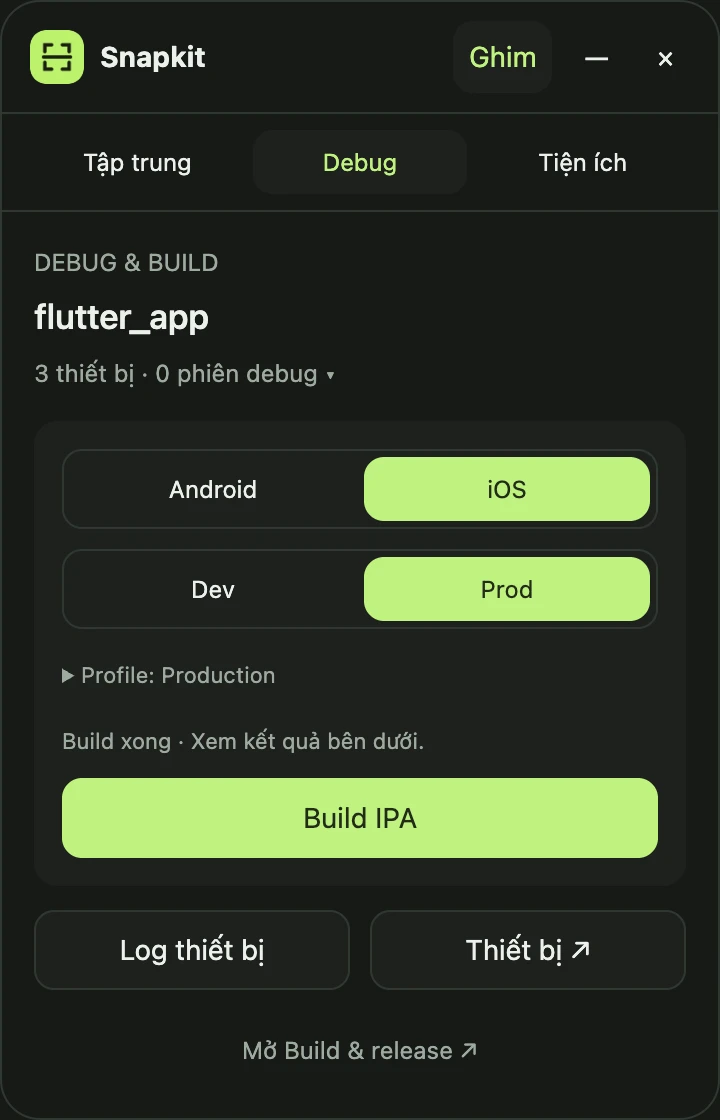
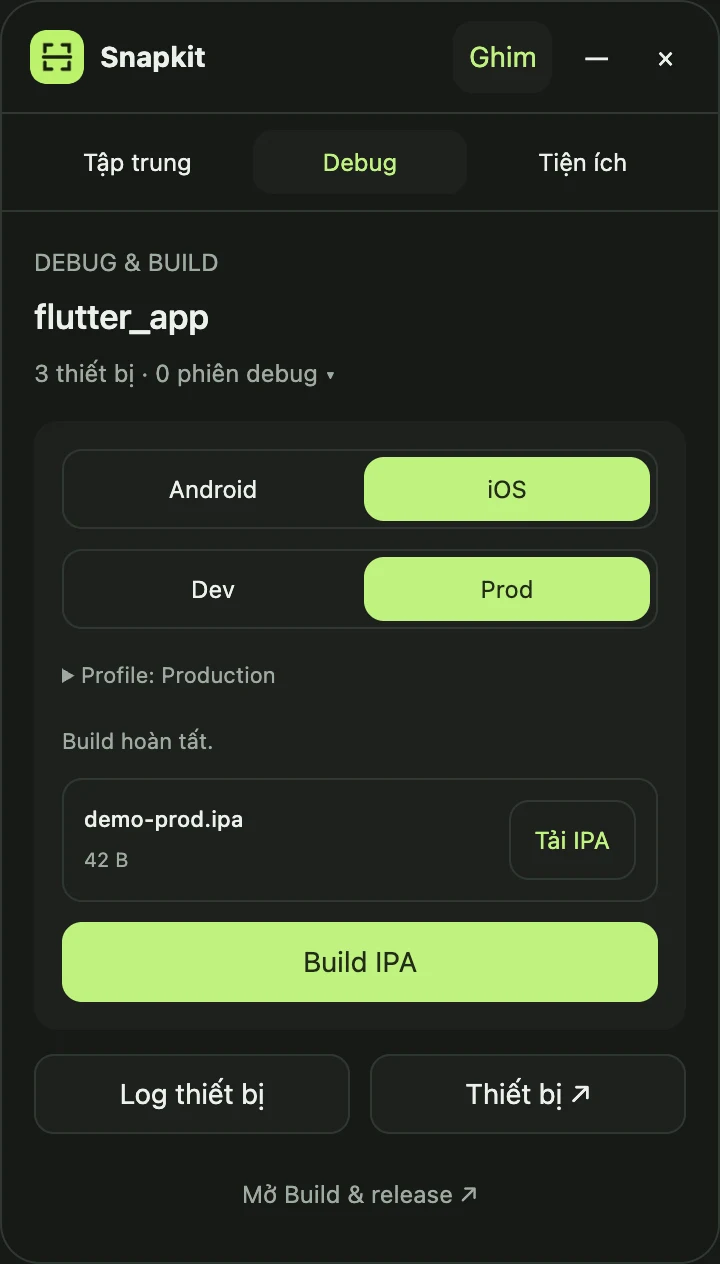
feat: save Mini build artifacts and notify on completion

diff --git a/scripts/content/seo-guides.js b/scripts/content/seo-guides.js
@@ -57,7 +57,7 @@ export const guides = [
  ['Tạo mã QR không qua liên kết trung gian',['Mở QR Kit, nhập liên kết hoặc văn bản và bấm Tạo mã QR. Bạn có thể chọn mức phục hồi mã L, M, Q hoặc H; mức cao chịu lỗi tốt hơn nhưng chứa ít dữ liệu hơn.','Lưu ảnh QR dạng PNG rồi quét thử bằng điện thoại trước khi chia sẻ. QR chứa trực tiếp nội dung bạn nhập, không mã hoá và không tự gửi lên server. Thay nội dung sẽ xoá ảnh QR cũ để tránh lưu nhầm.']],
  ['Đổi ảnh đại diện',['Mở Hồ sơ của tôi → Tải ảnh lên để chọn PNG, JPG hoặc WebP tối đa 5 MB. Ảnh được cắt vuông ở giữa và thu nhỏ thành 256 × 256.','Hoặc mở Thư viện avatar, chọn bộ Robot/Chân dung và một ảnh, hay bấm Chọn ngẫu nhiên. Xem trước rồi Lưu hồ sơ; Đặt lại thay đổi bỏ bản nháp và Dùng chữ cái khôi phục avatar chữ cái. Avatar được giữ khi đăng nhập lại; demo chỉ thay đổi trong bản xem thử.']],
  ['Ổ trong máy và SSD gắn ngoài',['Vào Thiết lập & công cụ hoặc Snapkit Kit → Theo dõi máy để xem từng ổ đang kết nối. Mỗi thẻ ghi tên ổ, SSD/HDD khi hệ điều hành cung cấp, kết nối, dung lượng trống và tổng dung lượng. Nhãn chỉ rõ ổ hệ thống, dữ liệu Snapkit và dự án đang mở.','Dung lượng dùng GB thập phân. Trên macOS, số trống là phần hệ thống đang cho phép ghi; Cài đặt macOS có thể tính thêm phần có thể thu hồi. Các volume System/Data trong cùng nhóm APFS được gộp, không cộng dung lượng hai lần. Bấm Kiểm tra lại hoặc Cập nhật thông tin máy sau khi cắm/rút ổ.']],
- ['Widget nổi và menu bar',['Trong bản desktop, bấm Mở widget nổi trên Snapkit Kit hoặc Focus Kit. Chuyển Tập trung, Debug hoặc Tiện ích bằng thanh chế độ phía trên. Chế độ cuối được nhớ trên máy. Đổi chế độ không dừng đồng hồ. Kéo thanh Snapkit để di chuyển; Ghim giữ widget trên cùng, dấu trừ thu gọn và dấu × đóng riêng widget. Đồng hồ đồng bộ với Focus Kit kể cả khi cửa sổ chính bị ẩn.','Trong My day, bấm nút ghim cạnh task để đưa task thật và tiến độ tiêu chí lên widget. Mở task quay lại đúng công việc trong Teams. Tiến độ được kiểm tra lại khi widget mở và có kết nối; widget không tự đánh dấu tiêu chí thay bạn.','Build trực tiếp trong Debug: chọn Android hoặc iOS, chọn Dev hoặc Prod, kiểm tra tên Profile rồi bấm Build APK/IPA. Dev/Prod là môi trường từ profile dự án, không phải chế độ debug của Flutter. Widget dùng đúng flavor, entrypoint và file defines của profile. Nếu chưa có profile rõ ràng hoặc có nhiều profile trùng môi trường, bấm dòng Profile để chọn. Lựa chọn được nhớ riêng theo dự án, nền tảng và môi trường. iOS cần macOS, Xcode và cấu hình signing; widget không tự upload lên TestFlight. Khi đang build, bạn có thể bấm Huỷ. Mở Build & release để xem artifact, log lỗi và cấu hình nâng cao.',
+ ['Widget nổi và menu bar',['Trong bản desktop, bấm Mở widget nổi trên Snapkit Kit hoặc Focus Kit. Chuyển Tập trung, Debug hoặc Tiện ích bằng thanh chế độ phía trên. Chế độ cuối được nhớ trên máy. Đổi chế độ không dừng đồng hồ. Kéo thanh Snapkit để di chuyển; Ghim giữ widget trên cùng, dấu trừ thu gọn và dấu × đóng riêng widget. Đồng hồ đồng bộ với Focus Kit kể cả khi cửa sổ chính bị ẩn.','Trong My day, bấm nút ghim cạnh task để đưa task thật và tiến độ tiêu chí lên widget. Mở task quay lại đúng công việc trong Teams. Tiến độ được kiểm tra lại khi widget mở và có kết nối; widget không tự đánh dấu tiêu chí thay bạn.','Build trực tiếp trong Debug: chọn Android hoặc iOS, chọn Dev hoặc Prod, kiểm tra tên Profile rồi bấm Build APK/IPA. Dev/Prod là môi trường từ profile dự án, không phải chế độ debug của Flutter. Widget dùng đúng flavor, entrypoint và file defines của profile. Nếu chưa có profile rõ ràng hoặc có nhiều profile trùng môi trường, bấm dòng Profile để chọn. Lựa chọn được nhớ riêng theo dự án, nền tảng và môi trường. iOS cần macOS, Xcode và cấu hình signing; widget không tự upload lên TestFlight. Khi đang build, bạn có thể bấm Huỷ. Build xong, tên file, dung lượng và nút Tải APK/IPA hiện ngay trong widget; chọn nơi lưu, Snapkit mở vị trí file sau khi tải. Thông báo hệ thống có âm thanh báo build thành công hoặc thất bại kể cả khi widget đã đóng, nếu bạn đã cấp quyền thông báo. Bấm thông báo để mở Build & release. Mở Build & release để xem log lỗi và cấu hình nâng cao.',
  'Trong Debug, xem thiết bị online, phiên Debug Sync và trạng thái build thật. Nếu công cụ build không cung cấp phần trăm, Snapkit hiển thị giai đoạn xử lý. Log thiết bị, Thiết bị và Build & release mở màn tương ứng trong ứng dụng. Trong Tiện ích, Copy dùng mục mới nhất trong lịch sử đã bật; Chụp ảnh và Tạo QR mở công cụ đầy đủ. Giữ máy thức dùng chung trạng thái với ứng dụng.',
  'Biểu tượng Snapkit nằm trên menu bar của macOS hoặc system tray của Windows. Đóng cửa sổ chính chỉ ẩn ứng dụng; mở lại từ biểu tượng hoặc Dock. Chọn Thoát Snapkit để dừng ứng dụng hoàn toàn. Giữ máy thức và clipboard theo phiên chỉ kết thúc khi tắt chức năng hoặc thoát hẳn.','Sau lần đăng nhập đầu tiên, desktop yêu cầu thông báo qua hệ điều hành. Trên web, bấm Cho phép thông báo trong lời nhắc. Không hỏi lại nếu bạn đã tắt hoặc chọn Để sau; có thể bật lại trong bảng thông báo.']],
  ['Những công cụ còn lại',['Image Kit đổi kích thước và định dạng PNG, JPEG, WebP. Text Kit xử lý JSON, Base64, URL và văn bản. File Check đối chiếu SHA-256 của tệp tải về. Focus Kit hẹn giờ tập trung; desktop có thông báo hệ điều hành nếu được cấp quyền.','Muốn mở cùng máy hoặc giữ máy thức, dùng Luôn sẵn khi bạn cần ở cuối trang. Khởi động cùng máy chỉ có trong bản cài đặt macOS/Windows; Giữ máy luôn thức kết thúc khi tắt chức năng hoặc thoát hẳn ứng dụng. Dữ liệu của các tiện ích này không được tự chia sẻ vào Teams.']]]},en:{title:'Snapkit everyday utility kit',description:'Use session clipboard history, batch rename, screen annotation, QR generation and local tools on macOS and Windows.',intro:'No development project required. Open Personal → Snapkit Kit → Everyday tools and choose what you need.',sections:[
@@ -67,7 +67,7 @@ export const guides = [
  ['Capture, annotate and redact an image',['In Snap Capture, choose a desktop screen or open a PNG, JPEG or WebP image. macOS may require Screen Recording permission in System Settings and an app restart. Screen previews are captured at up to 1920 × 1080.','Choose Mark rectangle, Draw arrow or Cover private text, then drag on the image. Redaction writes an opaque black area into the exported PNG pixels. Check coverage before sharing.','Undo an annotation to correct it, then Save annotated image. The original is not overwritten. Discard image clears it from the tool. The browser demo annotates selected or sample images; it does not capture desktop screens.']],
  ['Generate a direct QR code',['Open QR Kit, enter a link or text and generate the code. Choose error correction L, M, Q or H; higher correction tolerates more damage but fits less data.','Save the PNG and test it with your phone before sharing. The code contains your original content without encryption or a tracking redirect. It is generated locally. Editing the content clears the old output to prevent saving a stale code.']],
  ['Internal and external storage',['Open Setup & tools or Snapkit Kit → Machine Watch to see connected storage. Each card identifies the volume, SSD/HDD when reported by the OS, connection, available and total space. Badges show the system disk, Snapkit data and active project.','Capacity uses decimal GB. macOS may include reclaimable space in its own storage estimates; Snapkit shows currently writable space. System/Data volumes in an APFS group are shown once. Refresh after connecting or disconnecting a drive.']],
- ['Floating widget and menu bar',['In the desktop app, choose Open floating widget in Snapkit Kit or Focus Kit. Choose Focus, Debug or Utilities in the mode bar. The last mode is remembered on this computer; switching does not pause your timer. Drag its Snapkit header to move it, Pin keeps it on top, minus collapses it and × closes just the widget. Its timer stays in sync with Focus Kit when the main window is hidden.','In My day, use the pin button beside a task to show its real title and acceptance progress. Open task returns to that work in Teams. Progress refreshes while the widget is open and connected; criteria are edited in the full app.','Build directly in Debug: choose Android or iOS, select Dev or Prod, review the Profile name, then press Build APK/IPA. Dev/Prod are project profile environments, not Flutter debug build modes. The widget uses that profile’s actual flavor, entrypoint and defines file. If an environment is missing or ambiguous, choose a profile from the Profile row. Choices are remembered per project, platform and environment. iOS requires macOS, Xcode and signing setup; the widget does not upload to TestFlight. Cancel stops the active build. Open Build & release for artifacts, failure logs and advanced configuration.',
+ ['Floating widget and menu bar',['In the desktop app, choose Open floating widget in Snapkit Kit or Focus Kit. Choose Focus, Debug or Utilities in the mode bar. The last mode is remembered on this computer; switching does not pause your timer. Drag its Snapkit header to move it, Pin keeps it on top, minus collapses it and × closes just the widget. Its timer stays in sync with Focus Kit when the main window is hidden.','In My day, use the pin button beside a task to show its real title and acceptance progress. Open task returns to that work in Teams. Progress refreshes while the widget is open and connected; criteria are edited in the full app.','Build directly in Debug: choose Android or iOS, select Dev or Prod, review the Profile name, then press Build APK/IPA. Dev/Prod are project profile environments, not Flutter debug build modes. The widget uses that profile’s actual flavor, entrypoint and defines file. If an environment is missing or ambiguous, choose a profile from the Profile row. Choices are remembered per project, platform and environment. iOS requires macOS, Xcode and signing setup; the widget does not upload to TestFlight. Cancel stops the active build. When complete, the widget shows the file name, size and Save APK/IPA button. Choose a save location; Snapkit reveals the saved file. A system notification with sound reports success or failure even when the widget is closed, if notifications are allowed. Click it to open Build & release. Open Build & release for failure logs and advanced configuration.',
  'Debug shows online devices, Debug Sync sessions and the actual build stage, without inventing a completion percentage. Device logs, Devices and Build & release open the corresponding app pages. Utilities copies the newest captured history item; Capture and Create QR open their full tools. Keep Awake shares the same setting as the full app.',
  'Snapkit appears in the macOS menu bar or Windows system tray. Closing the main window hides it; reopen from the icon or Dock. Choose Quit Snapkit to stop the app. Keep Awake and session clipboard continue until disabled or you quit entirely.','After your first signed-in launch, desktop requests OS notifications. On the web, click Allow notifications in the startup invitation. Existing opt-outs and Not now are respected; enable later in the notification panel.']],
  ['Change your avatar',['Open My profile → Upload photo to choose a PNG, JPG or WebP up to 5 MB. Snapkit center-crops it to a square and resizes it to 256 × 256 before saving.','Or open Avatar library, choose Robots or Portraits, then select an avatar or choose Surprise me. Preview it and Save profile. Reset changes discards your draft; Use initials restores your initials. Saved avatars survive sign-in. The web demo changes only the current preview.']],

diff --git a/apps/desktop/src/mini/mini.js b/apps/desktop/src/mini/mini.js
@@ -23,14 +23,16 @@ function render(value){
   const picker=$('build-profile-picker'),label=$('build-profile-label');label.textContent=(vi?'Profile: ':'Profile: ')+(q?.profile||(vi?'Chọn cấu hình':'Choose profile'));picker.hidden=!q?.profiles?.length;
   const signature=JSON.stringify([q?.profiles,q?.profileId,busy,q?.busy]);if($('build-profiles').dataset.signature!==signature){$('build-profiles').dataset.signature=signature;const options=(q?.profiles||[]).map(profile=>{const button=document.createElement('button');button.textContent=profile.name;button.setAttribute('aria-pressed',String(profile.id===q.profileId));button.disabled=busy||q.busy;button.addEventListener('click',()=>{picker.open=false;void action('build:profile:'+profile.id);});return button;});$('build-profiles').replaceChildren(...options);}
   const reasons={signin:vi?'Đăng nhập trong Snapkit.':'Sign in to Snapkit.',workspace:vi?'Chọn dự án trong Snapkit.':'Choose a project in Snapkit.',framework:vi?'Build nhanh hiện hỗ trợ Flutter.':'Quick build supports Flutter.',loading:vi?'Đang tải cấu hình…':'Loading profiles…',catalog:vi?'Mở Build & release để kiểm tra cấu hình.':'Open Build & release to review configuration.',platform:q?.platform==='ios'?(vi?'iOS cần macOS và dự án iOS.':'iOS requires macOS and an iOS project.'):(vi?'Dự án chưa có Android.':'This project has no Android platform.'),profile:vi?'Chọn profile cho môi trường này.':'Choose a profile for this environment.',busy:vi?'Một tác vụ build đang chạy.':'A build task is running.'};
-  const stages={starting:vi?'Đang bắt đầu…':'Starting…',preparing:vi?'Đang chuẩn bị…':'Preparing…',building:vi?'Đang build…':'Building…',collecting:vi?'Đang lưu kết quả…':'Saving artifacts…',succeeded:vi?'Build xong · Xem kết quả bên dưới.':'Build complete · Open results below.',failed:vi?'Build thất bại · Mở chi tiết bên dưới.':'Build failed · Open details below.',cancelled:vi?'Đã huỷ build.':'Build cancelled.',interrupted:vi?'Build bị gián đoạn.':'Build interrupted.'};
+  const stages={starting:vi?'Đang bắt đầu…':'Starting…',preparing:vi?'Đang chuẩn bị…':'Preparing…',building:vi?'Đang build…':'Building…',collecting:vi?'Đang lưu kết quả…':'Saving artifacts…',succeeded:vi?'Build hoàn tất.':'Build complete.',failed:vi?'Build thất bại · Mở chi tiết bên dưới.':'Build failed · Open details below.',cancelled:vi?'Đã huỷ build.':'Build cancelled.',interrupted:vi?'Build bị gián đoạn.':'Build interrupted.'};
   $('build-status').textContent=q?.reason&&!q.busy?reasons[q.reason]||'':d?.build?.upload?(vi?'Đang upload…':'Uploading…'):(q?.busy?[stages[q?.status]||reasons.busy,q?.activeFormat,q?.activeFlavor].filter(Boolean).join(' · '):stages[q?.status])||(q?.busy?reasons.busy:vi?'Sẵn sàng · APK / IPA':'Ready · APK / IPA');
+  const artifacts=$('build-artifacts'),artifactSignature=JSON.stringify([q?.artifacts,busy,vi]);artifacts.hidden=!q?.artifacts?.length;
+  if(artifacts.dataset.signature!==artifactSignature){artifacts.dataset.signature=artifactSignature;artifacts.replaceChildren(...(q?.artifacts||[]).map(item=>{const row=document.createElement('div');row.className='build-artifact';const label=document.createElement('span'),name=document.createElement('strong'),size=document.createElement('small');name.textContent=item.name;size.textContent=item.size<1024?item.size+' B':(item.size/(item.size<1024*1024?1024:1024*1024)).toLocaleString(vi?'vi':'en',{maximumFractionDigits:1})+(item.size<1024*1024?' KB':' MB');label.append(name,size);const button=document.createElement('button');button.textContent=(vi?'Tải ':'Save ')+item.name.split('.').pop().toUpperCase();button.disabled=busy;button.addEventListener('click',()=>void action('build:download:'+item.jobId+':'+item.id));row.append(label,button);return row;}));}
   $('build-start').textContent=q?.busy?(vi?'Đang build…':'Building…'):'Build '+(q?.platform==='ios'?'IPA':'APK');$('build-start').disabled=busy||!q?.canBuild;$('build-cancel').hidden=!q?.canCancel;$('build-cancel').disabled=busy;$('build-cancel').textContent=vi?'Huỷ':'Cancel';
   $('logs').textContent=vi?'Log thiết bị':'Device logs';$('devices').textContent=vi?'Thiết bị ↗':'Devices ↗';$('releases').textContent=vi?'Mở Build & release ↗':'Open Build & release ↗';$('mini-title').textContent='Debug & build';$('mini-time').textContent=d&&!d.unavailable?d.sessions+(vi?' phiên':' sessions'):'—';
  }else $('mini-title').textContent=task?.title||'Focus Kit';
  clock();fit();
 }
-async function action(name){if(busy)return;busy=true;try{$('error').hidden=true;const next=await window.snapkitMini.action(name);if(next)render(next);if(name==='copy'||name==='build:start'){$('feedback').textContent=name==='build:start'?(state?.language==='vi'?'Đã bắt đầu build':'Build started'):(state?.language==='vi'?'Đã sao chép':'Copied');$('feedback').hidden=false;clearTimeout(feedbackTimer);feedbackTimer=setTimeout(()=>$('feedback').hidden=true,1800);}}catch{$('error').textContent=name.startsWith('build:')?(state?.language==='vi'?'Chưa build được. Mở Build & release để kiểm tra.':'Could not build. Open Build & release to review.'):(state?.language==='vi'?'Chưa thực hiện được. Thử lại nhé.':'Could not complete. Try again.');$('error').hidden=false;}finally{busy=false;if(state)render(state);}}
+async function action(name){if(busy)return;busy=true;try{$('error').hidden=true;const next=await window.snapkitMini.action(name);if(next)render(next);if(name==='copy'||name==='build:start'){$('feedback').textContent=name==='build:start'?(state?.language==='vi'?'Đã bắt đầu build':'Build started'):(state?.language==='vi'?'Đã sao chép':'Copied');$('feedback').hidden=false;clearTimeout(feedbackTimer);feedbackTimer=setTimeout(()=>$('feedback').hidden=true,1800);}}catch{$('error').textContent=name.startsWith('build:download:')?(state?.language==='vi'?'Chưa tải được file. Thử lại hoặc mở Build & release.':'Could not save the file. Retry or open Build & release.'):name.startsWith('build:')?(state?.language==='vi'?'Chưa build được. Mở Build & release để kiểm tra.':'Could not build. Open Build & release to review.'):(state?.language==='vi'?'Chưa thực hiện được. Thử lại nhé.':'Could not complete. Try again.');$('error').hidden=false;}finally{busy=false;if(state)render(state);}}
 for(const id of ['pin','compact','close','focus','open','clear','awake','copy','clipboard','capture','qr','logs','devices','releases'])$(id).addEventListener('click',()=>void action(id));$('expand').addEventListener('click',()=>void action('compact'));
 for(const button of document.querySelectorAll('[data-mode]'))button.addEventListener('click',()=>void action('mode:'+button.dataset.mode));
 $('modes').addEventListener('keydown',event=>{if(!['ArrowLeft','ArrowRight','Home','End'].includes(event.key))return;event.preventDefault();const buttons=[...document.querySelectorAll('[data-mode]')],index=buttons.indexOf(document.activeElement);const next=event.key==='Home'?0:event.key==='End'?buttons.length-1:(index+(event.key==='ArrowRight'?1:-1)+buttons.length)%buttons.length;buttons[next].focus();void action('mode:'+buttons[next].dataset.mode);});

diff --git a/apps/desktop/src/mini/mini.html b/apps/desktop/src/mini/mini.html
@@ -2,6 +2,6 @@
 <header><img src="../../assets/icon.png" alt=""><strong>Snapkit</strong><button id="pin" aria-pressed="true">Ghim</button><button id="compact" aria-label="Thu gọn">—</button><button id="close" aria-label="Đóng widget">×</button></header>
 <nav id="modes" role="tablist" aria-label="Widget mode"><button id="tab-focus" role="tab" aria-controls="focus-panel" aria-selected="true" data-mode="focus">Tập trung</button><button id="tab-debug" role="tab" aria-controls="debug-panel" aria-selected="false" data-mode="debug">Debug</button><button id="tab-utility" role="tab" aria-controls="utility-panel" aria-selected="false" data-mode="utility">Tiện ích</button></nav>
 <main id="focus-panel" role="tabpanel" aria-labelledby="tab-focus"><section id="task" hidden><div class="eyebrow" id="project"></div><h1 id="title"></h1><div class="criteria" id="criteria"></div><div class="track" id="track"><span id="progress"></span></div><button class="text" id="clear">Bỏ ghim task</button></section><section id="empty"><div class="eyebrow">FOCUS KIT</div><h1 id="empty-title">Một việc tại một thời điểm.</h1><p id="hint">Ghim task từ My day để theo dõi tại đây.</p></section><div class="focus"><div><div class="muted" id="status">Sẵn sàng tập trung</div><div id="timer" role="timer">25:00</div></div><button id="focus" class="primary">Bắt đầu</button></div><button class="open" id="open">Mở Snapkit ↗</button></main>
-<main id="debug-panel" role="tabpanel" aria-labelledby="tab-debug" hidden><section><div class="eyebrow">DEBUG & BUILD</div><h1 id="debug-title">Không cần đổi cửa sổ.</h1><button class="text" id="debug-count" aria-expanded="false" aria-controls="debug-devices"></button></section><div id="debug-devices" hidden></div><div class="build quick-build"><strong id="build-title">Build nhanh</strong><div class="build-segments" id="build-platforms" role="group" aria-label="Nền tảng"><button id="build-android" aria-pressed="true">Android</button><button id="build-ios" aria-pressed="false">iOS</button></div><div class="build-segments" id="build-environments" role="group" aria-label="Môi trường"><button id="build-dev" aria-pressed="true">Dev</button><button id="build-prod" aria-pressed="false">Prod</button></div><details id="build-profile-picker"><summary id="build-profile-label"></summary><div id="build-profiles" role="group" aria-label="Build profile"></div></details><p id="build-status" role="status"></p><div class="build-actions"><button class="primary" id="build-start">Build APK</button><button id="build-cancel" hidden>Huỷ</button></div></div><div class="tool-actions"><button id="logs">Xem log</button><button id="devices">Thiết bị ↗</button></div><button class="text" id="releases">Mở Build & release ↗</button></main>
+<main id="debug-panel" role="tabpanel" aria-labelledby="tab-debug" hidden><section><div class="eyebrow">DEBUG & BUILD</div><h1 id="debug-title">Không cần đổi cửa sổ.</h1><button class="text" id="debug-count" aria-expanded="false" aria-controls="debug-devices"></button></section><div id="debug-devices" hidden></div><div class="build quick-build"><strong id="build-title">Build nhanh</strong><div class="build-segments" id="build-platforms" role="group" aria-label="Nền tảng"><button id="build-android" aria-pressed="true">Android</button><button id="build-ios" aria-pressed="false">iOS</button></div><div class="build-segments" id="build-environments" role="group" aria-label="Môi trường"><button id="build-dev" aria-pressed="true">Dev</button><button id="build-prod" aria-pressed="false">Prod</button></div><details id="build-profile-picker"><summary id="build-profile-label"></summary><div id="build-profiles" role="group" aria-label="Build profile"></div></details><p id="build-status" role="status"></p><div id="build-artifacts" hidden></div><div class="build-actions"><button class="primary" id="build-start">Build APK</button><button id="build-cancel" hidden>Huỷ</button></div></div><div class="tool-actions"><button id="logs">Xem log</button><button id="devices">Thiết bị ↗</button></div><button class="text" id="releases">Mở Build & release ↗</button></main>
 <main id="utility-panel" role="tabpanel" aria-labelledby="tab-utility" hidden><section><div class="eyebrow">DAILY KIT</div><h1 id="utility-title">Việc nhỏ, xử lý tại chỗ.</h1></section><div class="clipboard-heading"><span id="clipboard-title">Clipboard gần đây</span><span class="muted" id="clipboard-count"></span></div><div class="clipboard"><code id="clipboard-text"></code><button id="copy">Copy</button></div><button class="text" id="clipboard">Mở Clipboard Kit ↗</button><div class="tool-actions"><button id="capture">Chụp ảnh</button><button id="qr">Tạo QR</button></div><button id="awake" aria-pressed="false">Giữ máy thức · Tắt</button><p id="privacy"></p></main>
 <div id="mini-bar" hidden><span id="mini-title">Focus Kit</span><strong id="mini-time">25:00</strong><button id="expand" aria-label="Mở rộng">↗</button></div><div id="feedback" role="status" hidden></div><div id="error" role="alert" hidden></div><script src="mini.js"></script></body></html>

diff --git a/tests/unit/mini-artifacts.test.js b/tests/unit/mini-artifacts.test.js
@@ -1,0 +1,6 @@
+import test from 'node:test';import assert from 'node:assert/strict';import {createRequire} from 'node:module';import {mkdtemp,readFile,readdir,rm} from 'node:fs/promises';import os from 'node:os';import path from 'node:path';
+const {artifactsFor,completionTracker,saveArtifact}=createRequire(import.meta.url)('../../apps/desktop/src/mini/artifacts.cjs');
+const job={id:'12345678-1234-1234-1234-123456789abc',status:'succeeded',artifacts:[{id:'abcdef12-1234-1234-1234-123456789abc',name:'app-dev-release.apk',size:1200,file:'/private/secret'}]};
+test('Mini exposes only completed downloadable artifacts without file paths',()=>{assert.equal(artifactsFor(job).length,1);assert.equal(JSON.stringify(artifactsFor(job)).includes('/private'),false);assert.deepEqual(artifactsFor({...job,status:'building'}),[]);for(const name of ['../app.apk','folder\\app.apk','secret.txt','app\n.apk'])assert.deepEqual(artifactsFor({...job,artifacts:[{...job.artifacts[0],name}]}),[]);});
+test('completion alerts fire once per successful or failed build, ignoring history and cancellation',()=>{const tracker=completionTracker();assert.deepEqual(tracker.observe([job]),[]);tracker.track(job);assert.deepEqual(tracker.observe([job]),[]);const running={...job,id:'new',status:'building'};tracker.observe([running]);assert.deepEqual(tracker.observe([{...running,status:'succeeded'}]).map(j=>j.id),['new']);assert.deepEqual(tracker.observe([{...running,status:'succeeded'}]),[]);tracker.track({id:'fast'});assert.equal(tracker.observe([{id:'fast',status:'failed'}]).length,1);tracker.observe([{id:'cancel',status:'building'}]);assert.deepEqual(tracker.observe([{id:'cancel',status:'cancelled'}]),[]);assert.deepEqual(tracker.observe([{...job,id:'different-workspace-history'}]),[]);tracker.observe([{id:'run',status:'building',plan:{operation:'run'}}]);assert.deepEqual(tracker.observe([{id:'run',status:'succeeded',plan:{operation:'run'}}]),[]);});
+test('artifact saves stream to disk and failed downloads preserve existing output without partial files',async()=>{const root=await mkdtemp(path.join(os.tmpdir(),'mini-artifact-'));try{const destination=path.join(root,'build.apk');await saveArtifact(new Response('artifact'),destination);assert.equal(await readFile(destination,'utf8'),'artifact');await assert.rejects(saveArtifact(new Response('error',{status:404}),destination));const broken=new ReadableStream({start(c){c.enqueue(new Uint8Array([1]));c.error(new Error('disconnected'));}});await assert.rejects(saveArtifact(new Response(broken),destination));assert.equal(await readFile(destination,'utf8'),'artifact');assert.deepEqual(await readdir(root),['build.apk']);}finally{await rm(root,{recursive:true,force:true});}});

diff --git a/apps/website/index.html b/apps/website/index.html
@@ -15,8 +15,8 @@
   <meta name="theme-color" content="#000000">
   <meta name="description" content="Snapkit giúp quản lý Android Emulator, iOS Simulator và debug nhiều thiết bị Flutter, React Native trên macOS và Windows. Tải miễn phí và giữ project trên máy bạn.">
   <title>Snapkit — Debug nhiều thiết bị Flutter, React Native</title>
-  <link rel="icon" href="favicon.svg" type="image/svg+xml"><link rel="stylesheet" href="site.css?v=20261110-showcase"><link rel="stylesheet" href="language.css"><link rel="stylesheet" href="visual.css?v=20261111-kit68">
-  <link rel="stylesheet" href="choices.css?v=20261106-icons"><script src="choices.js?v=20261106-icons" defer></script><script src="locales.js?v=20261111-kit68" defer></script><script src="i18n.js?v=20261106-images46" defer></script><script src="site.js?v=20261111-kit68" defer></script>
+  <link rel="icon" href="favicon.svg" type="image/svg+xml"><link rel="stylesheet" href="site.css?v=20261110-showcase"><link rel="stylesheet" href="language.css"><link rel="stylesheet" href="visual.css?v=20261111-kit69">
+  <link rel="stylesheet" href="choices.css?v=20261106-icons"><script src="choices.js?v=20261106-icons" defer></script><script src="locales.js?v=20261111-kit69" defer></script><script src="i18n.js?v=20261106-images46" defer></script><script src="site.js?v=20261111-kit69" defer></script>
   <script type="application/ld+json">{"@context": "https://schema.org", "@graph": [{"@type": "WebSite", "@id": "https://snapkit.vn/#website", "url": "https://snapkit.vn/", "name": "Snapkit", "inLanguage": ["vi", "en"]}, {"@type": "SoftwareApplication", "@id": "https://snapkit.vn/#app", "name": "Snapkit", "url": "https://snapkit.vn/", "description": "Desktop workspace for Flutter and React Native device management, multi-device debugging, captures and Flutter builds.", "applicationCategory": "DeveloperApplication", "operatingSystem": "macOS 13+, Windows 64-bit", "image": "https://snapkit.vn/assets/devices.png?v=20261106-images46", "offers": {"@type": "Offer", "price": "0", "priceCurrency": "USD", "description": "All current features are free."}, "featureList": ["Android Emulator and iOS Simulator management", "Flutter multi-device debug selection", "React Native Metro and Hermes debugging", "Device logs, screenshots and screen recordings", "Flutter APK, AAB and IPA builds", "Session clipboard history", "Batch filename preview and undo", "Screen annotation and redaction", "Local QR generation"]}]}</script>
 </head>
 <body class="visual-landing">

diff --git a/tests/unit/mini-build.test.js b/tests/unit/mini-build.test.js
@@ -7,3 +7,5 @@ test('Mini resolves real Dev/Prod profiles and never guesses an unconfigured or 
 test('explicit profile mapping is scoped to project and platform, and preserves actual build inputs',()=>{const id=profileId(prod),mapping={[key('/private/project')]:{'android:dev':id}};assert.equal(buildView(state,catalog,idle,selection,mapping).profileId,id);assert.equal(buildView({...state,settings:{...state.settings,workspace:'/another/project'}},catalog,idle,selection,mapping).profileId,profileId(dev));assert.notEqual(profileId(dev),profileId({...dev,defineFile:'config/other.json'}));});
 test('Mini disables unsupported, unauthenticated, unavailable and busy builds without leaking private data',()=>{const view=buildView(state,catalog,idle,selection,{});assert.equal(view.canBuild,true);assert.equal(buildView(state,{...catalog,platform:'win32'},idle,{...selection,platform:'ios'},{}).canBuild,false);assert.equal(buildView({...state,authRequired:true},catalog,idle,selection,{}).reason,'signin');assert.equal(buildView({...state,settings:{...state.settings,framework:'react-native'}},catalog,idle,selection,{}).reason,'framework');assert.equal(buildView(state,catalog,null,selection,{}).canBuild,false);assert.equal(buildView(state,catalog,{jobs:[],busy:true},selection,{}).canBuild,false);assert.equal(buildView(state,catalog,idle,selection,{},true).status,'starting');const json=JSON.stringify(view);for(const secret of ['secret-token','/private','lib/main','config/dev'])assert.equal(json.includes(secret),false);});
 test('Mini permits cancellation only for active builds in the current workspace',()=>{const job={id:'build',status:'building'};assert.equal(buildView(state,catalog,{busy:true,active:{id:'build',workspace:'/private/project'},jobs:[job]},selection,{}).canCancel,true);assert.equal(buildView(state,catalog,{busy:true,active:{id:'build',workspace:'/other/project'},jobs:[job]},selection,{}).canCancel,false);});
+
+test('Mini artifacts follow the selected profile and require an authenticated workspace',()=>{const job={id:'12345678-1234-1234-1234-123456789abc',status:'succeeded',plan:{format:'apk',...dev},artifacts:[{id:'abcdef12-1234-1234-1234-123456789abc',name:'app-dev.apk',size:100}]},releases={jobs:[job],busy:false};assert.equal(buildView(state,catalog,releases,selection,{}).artifacts.length,1);assert.equal(buildView(state,catalog,releases,{platform:'ios',environment:'prod'},{}).artifacts.length,0);assert.equal(buildView({...state,authRequired:true},catalog,releases,selection,{}).artifacts.length,0);});

diff --git a/apps/desktop/src/mini/mini.css b/apps/desktop/src/mini/mini.css
@@ -4,3 +4,5 @@ body{height:100vh;position:relative;min-height:0}nav{display:flex;gap:4px;paddin
 .quick-build{display:grid;gap:10px}.quick-build>strong{font-size:10px;letter-spacing:1px;color:var(--muted)}.build-segments{display:flex;gap:4px;border:1px solid var(--line);padding:3px;border-radius:10px}.build-segments button{flex:1;border:0;background:transparent;font-size:12px;min-height:32px;padding:5px 8px}.build-segments button[aria-pressed=true]{background:var(--accent);color:var(--ink)}.build-segments button:disabled{cursor:default}.build-actions{display:flex;gap:8px}.build-actions button{min-height:40px}.build-actions .primary{flex:1}.quick-build #build-status{margin:0;font-size:11px;line-height:1.5}.quick-build details{min-width:0}.quick-build summary{font-size:11px;color:var(--muted);cursor:pointer;white-space:nowrap;text-overflow:ellipsis;overflow:hidden;min-height:28px;padding:5px 0}.quick-build summary:focus-visible{outline:2px solid var(--green);outline-offset:2px}#build-profiles{display:grid;gap:6px;padding:6px 0;max-height:136px;overflow-y:auto}#build-profiles button{font-size:11px;text-align:left;overflow-wrap:anywhere}#build-profiles button[aria-pressed=true]{border-color:var(--green);color:var(--green)}
 
 #debug-panel{gap:12px;padding:16px}#debug-panel #build-title{display:none}#debug-count{margin:0;padding:0;text-align:left;min-height:24px;font-size:12px}#debug-panel h1{margin-bottom:4px}
+
+#build-artifacts{display:grid;gap:8px}.build-artifact{display:flex;align-items:center;gap:10px;padding:10px;border:1px solid var(--line);border-radius:10px}.build-artifact>span{flex:1;min-width:0}.build-artifact strong{display:block;font-size:11px;overflow-wrap:anywhere}.build-artifact small{font-size:10px;color:var(--muted)}.build-artifact button{flex:none;font-size:12px;min-height:40px;color:var(--green)}

diff --git a/apps/agent/src/main.js b/apps/agent/src/main.js
@@ -198,6 +198,7 @@ app.post('/api/apple/selection', async (req, res) => res.json(await releaseBuild
 app.use('/api/releases', (req, res, next) => { if (req.method !== 'GET' && settings.framework === 'react-native') return res.status(409).json({ error: 'React Native build and release is coming soon. Use your project CLI or Xcode.' }); next(); });
 app.get('/api/releases/catalog', async (_req, res) => res.json(settings.framework === 'react-native' ? { workspace: settings.workspace, android: false, ios: false, flavors: [], profiles: [], framework: 'react-native' } : await releaseBuilds.catalog(settings.workspace, settings)));
 app.get('/api/releases', (_req, res) => res.json(releaseBuilds.list(settings.workspace)));
+app.get('/api/releases/activity', (req, res) => { if(req.remoteToken)return res.status(403).json({error:'Build activity is local only.'});res.json(releaseBuilds.activity()); });
 app.get('/api/releases/:id', (req, res) => res.json(releaseBuilds.publicJob(releaseBuilds.find(requireWorkspace(), req.params.id), true)));
 app.post('/api/releases/build', async (req, res) => {
   if (req.body.operation === 'run') throw Error('Use the Run Release action to select a physical device.');

diff --git a/packages/domain/product-kit.js b/packages/domain/product-kit.js
@@ -1,5 +1,5 @@
-export const kitCatalog={minimumVersion:'0.2.0-beta.68',features:[
- {id:'mini',name:'Snapkit Mini',vi:'Widget Tập trung, build nhanh Android/iOS và Tiện ích',en:'Focus, Android/iOS quick builds and Utilities widget',desktop:'full',browser:'desktop-only',data:'local-timer'},
+export const kitCatalog={minimumVersion:'0.2.0-beta.69',features:[
+ {id:'mini',name:'Snapkit Mini',vi:'Widget Tập trung, build và tải APK/IPA, thông báo kết quả',en:'Focus, build and save APK/IPA, completion notifications',desktop:'full',browser:'desktop-only',data:'local-timer'},
  {id:'clipboard',name:'Clipboard Kit',vi:'Lịch sử văn bản theo phiên',en:'Session text history',desktop:'opt-in',browser:'manual',data:'session-memory'},
  {id:'rename',name:'File Kit',vi:'Đổi tên hàng loạt, xem trước và hoàn tác',en:'Batch rename with preview and undo',desktop:'full',browser:'preview',data:'local-files'},
  {id:'capture',name:'Snap Capture',vi:'Chụp, đánh dấu và che thông tin trên ảnh',en:'Screen capture, annotation and redaction',desktop:'screen-and-image',browser:'image-only',data:'local-image'},

diff --git a/tests/unit/releases.test.js b/tests/unit/releases.test.js
@@ -138,3 +138,5 @@ test('Run Release cancellation and failed device launch never report success or 
   const failed=await runner.start(workspace,{...input,operation:'run'},phone); await runner.active.done;
   assert.equal(runner.find(workspace,failed.id).status,'failed'); assert.deepEqual(runner.find(workspace,failed.id).artifacts,[]);
 });
+
+test('desktop build activity includes all projects without workspace paths, profile inputs or logs',()=>{const runner=new ReleaseBuilds({root:'/unused'});runner.jobs=[{id:'build',status:'building',workspace:'/private/project',log:'secret',plan:{format:'apk',flavor:'private',defineFile:'secret.json'}},{id:'other',status:'succeeded',workspace:'/other/project',plan:{format:'ipa'}}];assert.deepEqual(runner.activity(),{jobs:[{id:'build',status:'building',plan:{format:'apk',operation:undefined}},{id:'other',status:'succeeded',plan:{format:'ipa',operation:undefined}}]});});

diff --git a/apps/agent/src/modules/releases/release-builds.js b/apps/agent/src/modules/releases/release-builds.js
@@ -33,6 +33,7 @@ export class ReleaseBuilds {
     this.writing = task; return task;
   }
   publicJob(job, includeLog = false) { const { log, ...safe } = job; return includeLog ? { ...safe, log: redactBuildLog(log || '') } : safe; }
+  activity() { return {jobs:this.jobs.slice(-100).map(job=>({id:job.id,status:job.status,plan:{format:job.plan?.format,operation:job.plan?.operation}}))}; }
   list(workspace) {
     const project = workspace ? this.project(workspace) : '';
     return { jobs: this.jobs.filter(job => job.project === project).map(job => this.publicJob(job)).reverse(), active: this.active ? { id: this.active.job.id, workspace: this.active.job.workspace, operation: this.active.operation } : null, busy: !!this.active || this.starting, uploadConfigured: !!this.identities[project], configuredTeamIds: Object.keys(this.apple.teams), demo: this.demo };
